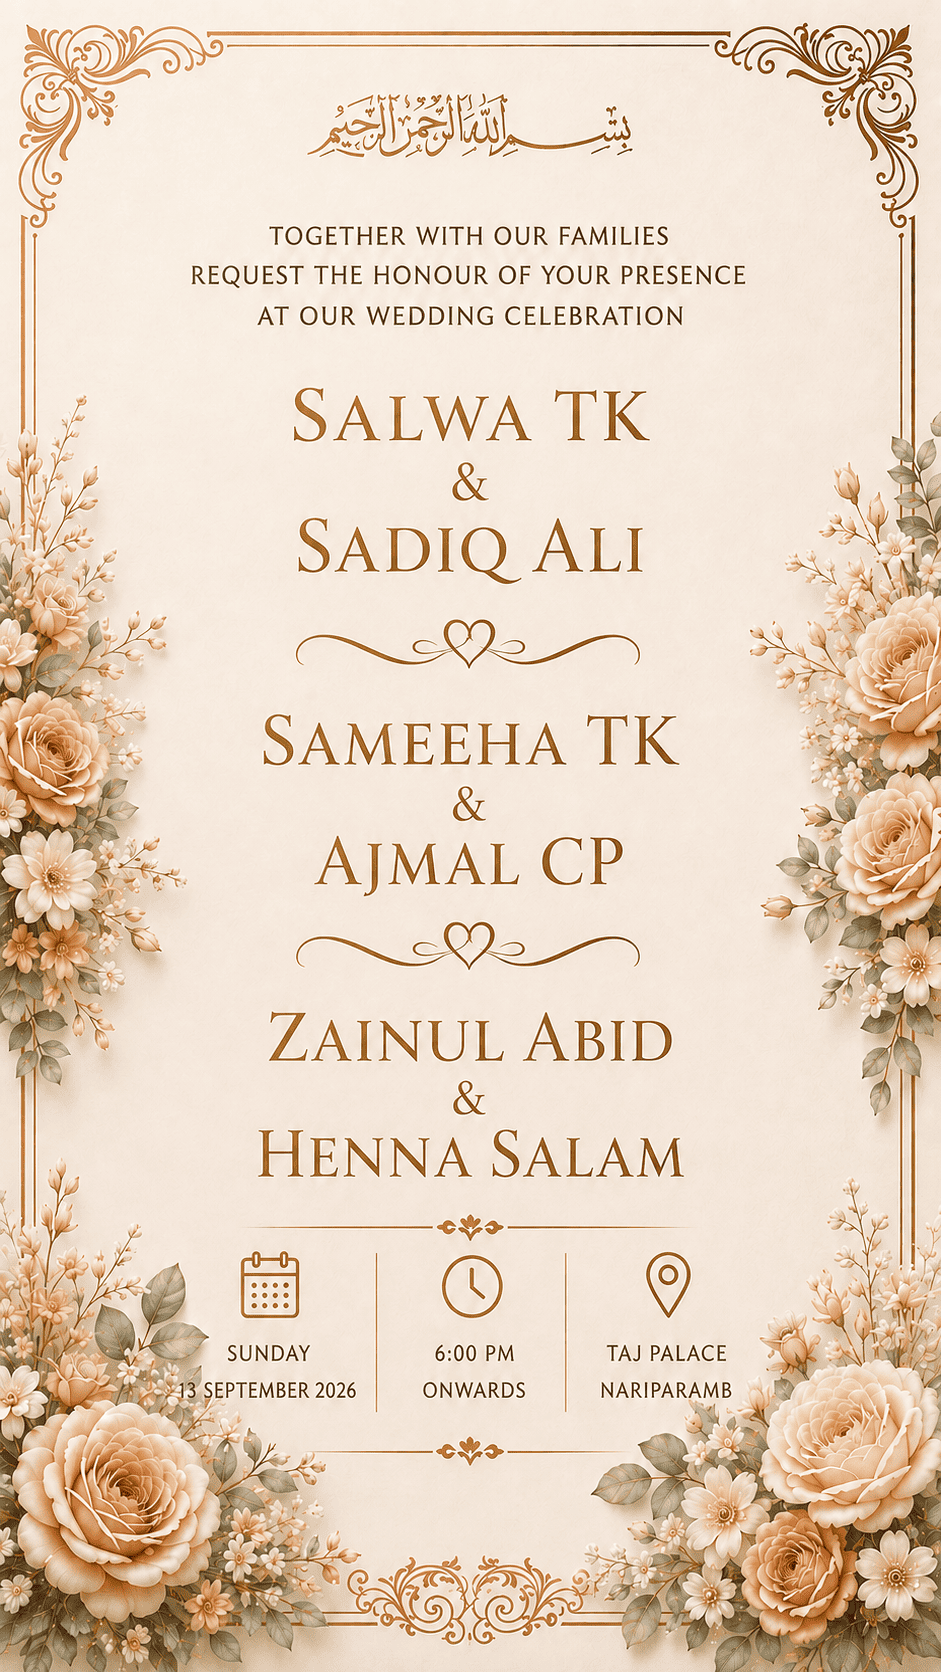
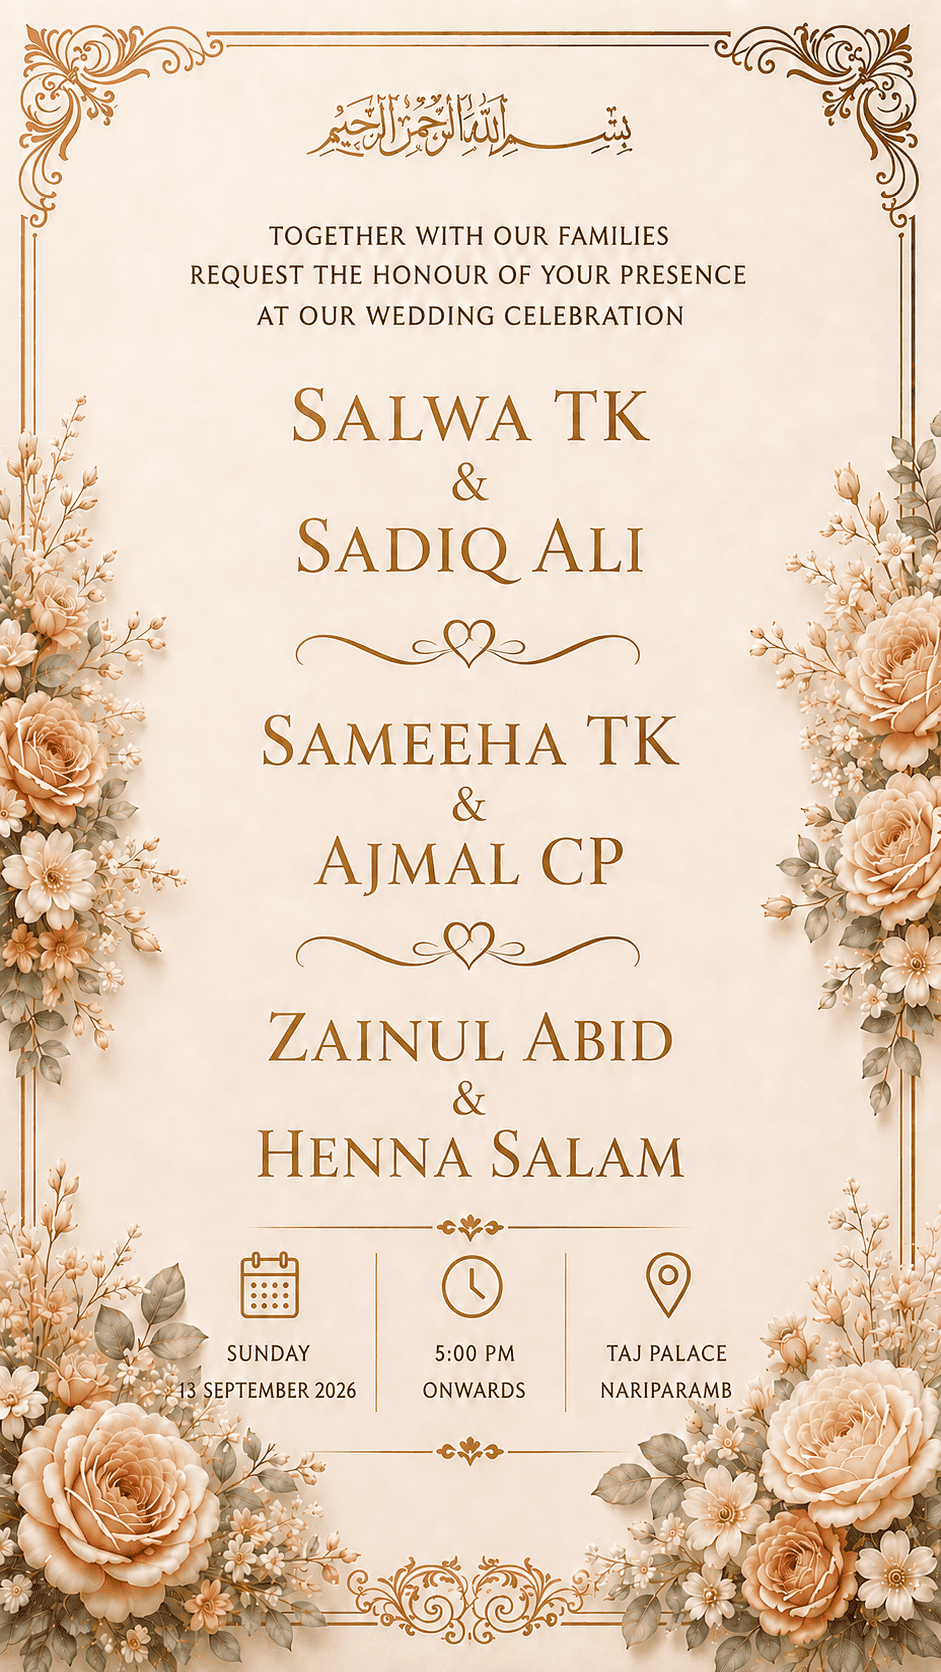
updated

diff --git a/index.html b/index.html
@@ -1423,7 +1423,7 @@ body.opening-active {
       <!-- COUNTDOWN -->
       <div class="details-countdown-wrap" data-fade>
         <div class="dct-eyebrow">Counting down to the celebration</div>
-        <div class="dct-date">Sunday, 13 September 2026 &nbsp;·&nbsp; 11:00 AM</div>
+        <div class="dct-date">Sunday, 13 September 2026 &nbsp;·&nbsp; 5:00 PM</div>
         <div class="details-countdown-grid">
           <div class="dct-unit">
             <div class="dct-num" id="dct-days">--</div>
@@ -1492,7 +1492,7 @@ body.opening-active {
         <div class="detail-card" data-fade>
           <div class="detail-icon"><svg viewBox="0 0 24 24" fill="none"><circle cx="12" cy="12" r="9" stroke="#D4AF37" stroke-width="1.3"/><path d="M12 7V12L15.5 14" stroke="#D4AF37" stroke-width="1.3" stroke-linecap="round"/></svg></div>
           <div class="detail-label">Time</div>
-          <div class="detail-main" id="detailTime">11:00 AM</div>
+          <div class="detail-main" id="detailTime">5:00 PM</div>
           <div class="detail-sub">Onwards</div>
         </div>
         <div class="detail-card" data-fade>
@@ -1567,11 +1567,11 @@ window.WEDDING_CONFIG = {
     ]
   },
   event: {
-    dateISO: "2026-09-13T11:00:00+05:30",
+    dateISO: "2026-09-13T17:00:00+05:30",
     dateDisplay: "Sunday, 13 September 2026",
     dayName: "Sunday",
     dateShort: "13 September 2026",
-    time: "11:00 AM onwards",
+    time: "5:00 PM onwards",
     venueName: "Taj Palace",
     venueAddress: "Nariparamba",
     googleMapsUrl: "https://maps.app.goo.gl/3BZwUuaSGrSYBHe19"
